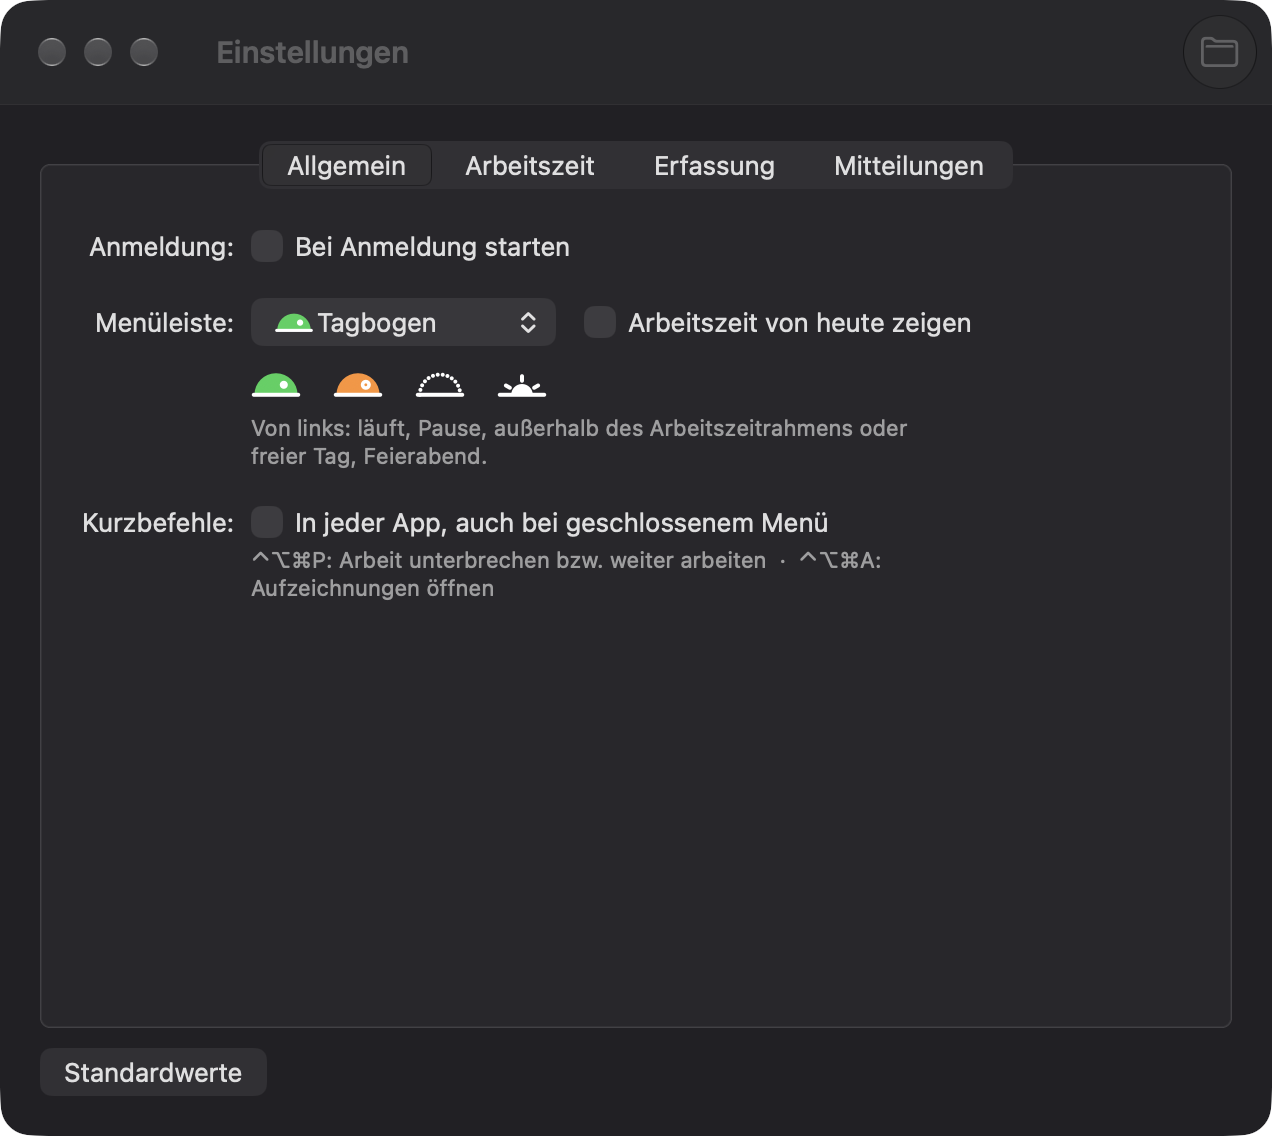
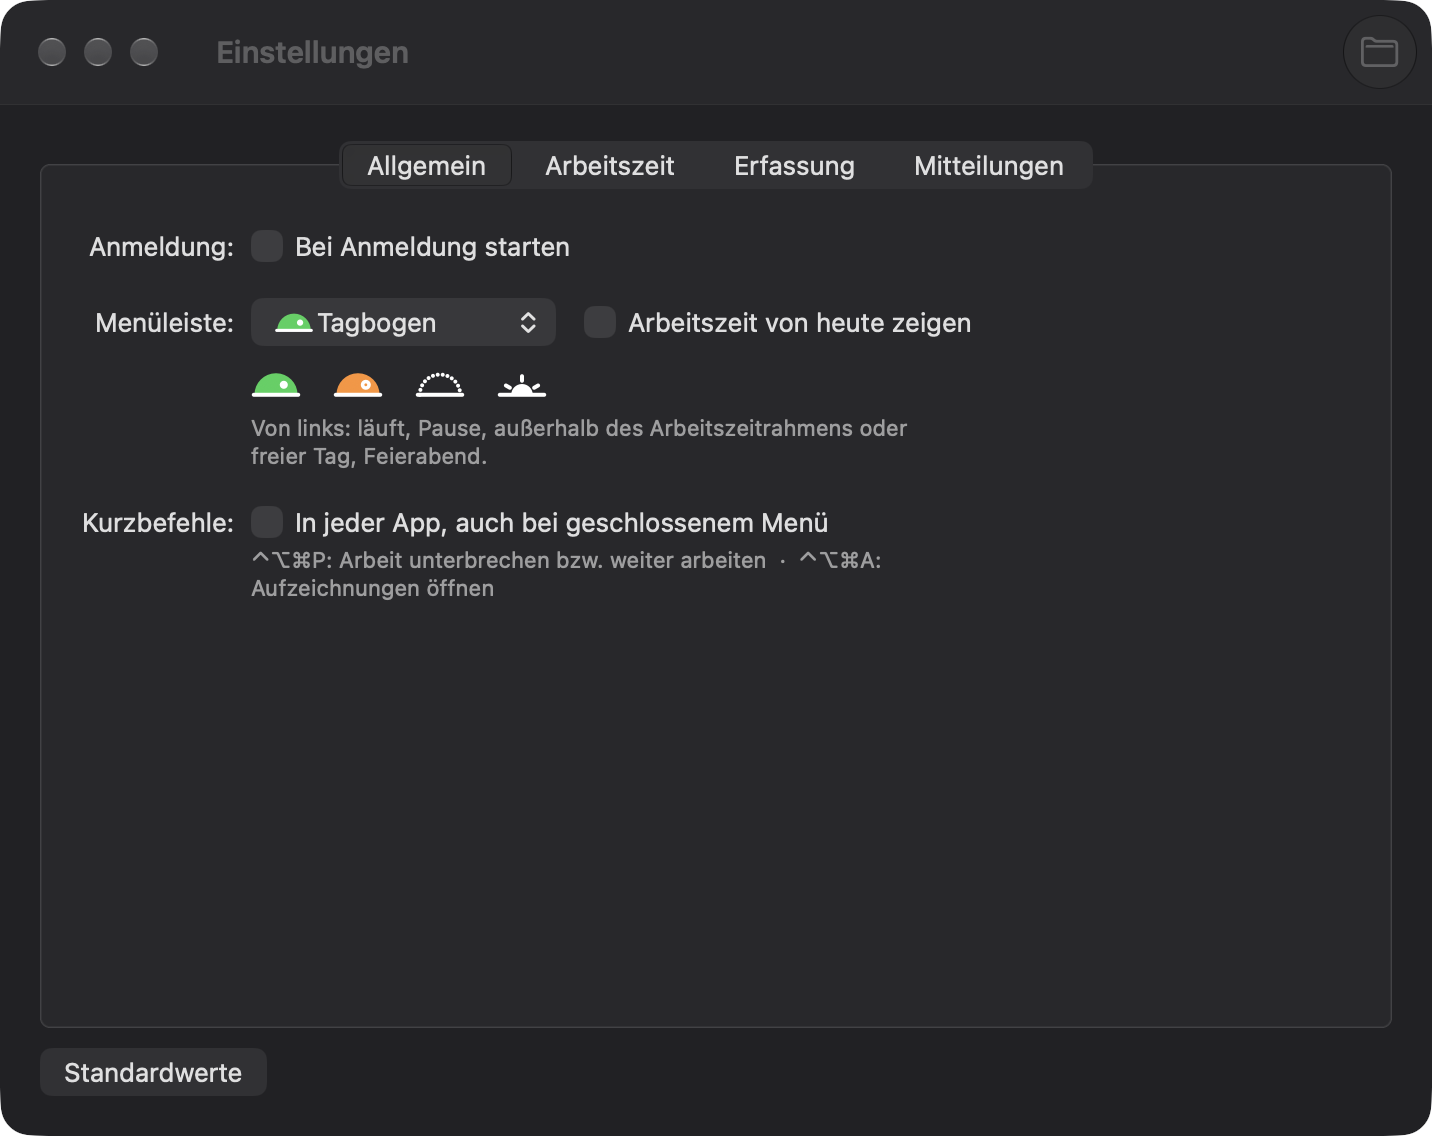
Einstellungs-Bilder im README neu
Alle vier Reiter und das Blatt „Arbeitszeit ändern“ neu aufgenommen: Das
Fenster ist durch die Spalte „Freie Tage“ breiter, das Blatt hat den
Schalter „Arbeit an freien Tagen als Mehrarbeit zählen“, der geplante
Stand ab 01.01.2027 zählt Arbeit an freien Tagen.

Der Hinweis unter „Freie Tage“ im Reiter „Erfassung“ nennt fürs
nachträgliche Zählen jetzt das Fenster „Aufzeichnungen“ (Inspektor und
Wochenansicht) statt nur der Wochenansicht.

diff --git a/src/settings_window.rs b/src/settings_window.rs
@@ -1550,8 +1550,8 @@ fn build(on_change: fn()) -> State {
                     None,
                     &caption(
                         "Am Wochenende und an den übrigen freien Tagen wird erfasst, aber erst gezählt, \
-                         wenn im Menü „Heute erfassen“ gewählt ist – nachträglich auch in der \
-                         Wochenansicht. Einträge von Hand zählen immer. Ob die Arbeit dort auch in Saldo \
+                         wenn im Menü „Heute erfassen“ gewählt ist – nachträglich auch im Fenster \
+                         „Aufzeichnungen“. Einträge von Hand zählen immer. Ob die Arbeit dort auch in Saldo \
                          und Zeitkonto eingeht, legen die Arbeitszeitregeln fest.",
                     ),
                 ),
